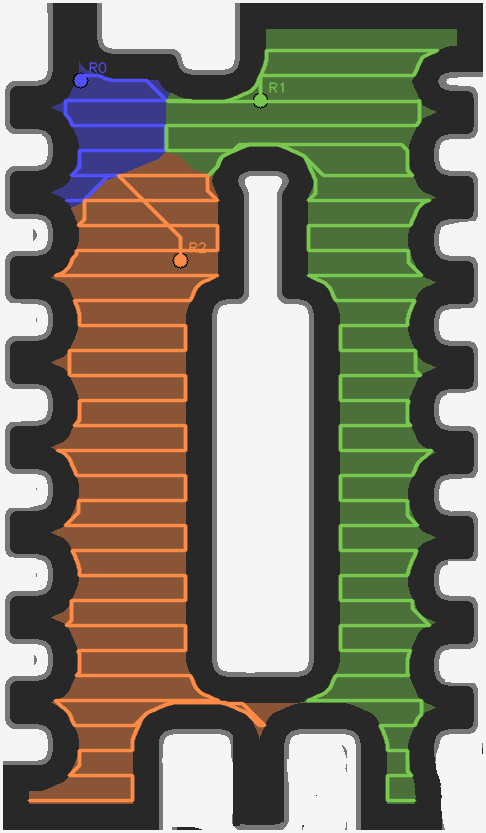
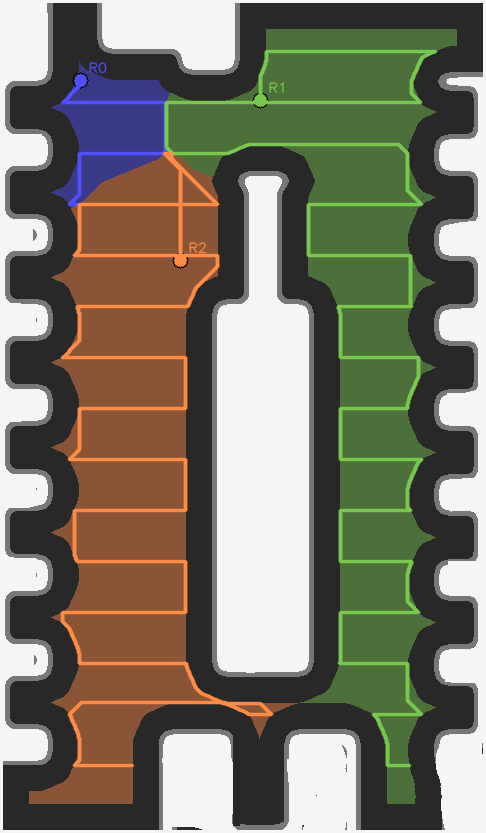
fix: reoslve initial heading issue

Changed region(s): [[0.0617, 0.0624, 0.8642, 0.9676], [0.6173, 0.1873, 0.8951, 0.9676], [0.4938, 0.8427, 0.5556, 0.8739]]

diff --git a/interactive_mapper/controller.py b/interactive_mapper/controller.py
@@ -416,7 +416,13 @@ class InteractiveMapper:
             if key == ord("q"):
                 break
             if key == ord("c"):
-                self.calibrate_heading(self.start_pos[2])
+                heading_relative_to_map_origin = input("Enter current robot heading relative to map origin (degrees): ")
+                try:
+                    heading_deg = float(heading_relative_to_map_origin)
+                    self.calibrate_heading(heading_deg)
+                except ValueError:
+                    print("Invalid heading input; please enter a number.")
+                    self.calibrate_heading(self.start_pos[2])
             if key == ord("r"):
                 start_x = input("Enter start X coordinate (pixels): ")
                 start_y = input("Enter start Y coordinate (pixels): ")

diff --git a/waveshare_robot_controller.py b/waveshare_robot_controller.py
@@ -564,7 +564,7 @@ class WaveRoverController:
         # Only turn if the required angle is significant (e.g., > 5 degrees)
         if abs(turn_angle_deg) > 5.0:
             print(f"  Turning by {turn_angle_deg:.1f}°...")
-            self.turn_degrees_PRECISE(degrees=turn_angle_deg, max_speed=0.2, min_speed=0.19, timeout=15)
+            self.turn_degrees_PRECISE(degrees=turn_angle_deg, max_speed=0.4, min_speed=0.3, timeout=15)
         else:
             print("  Already facing target, no turn needed.")
 
